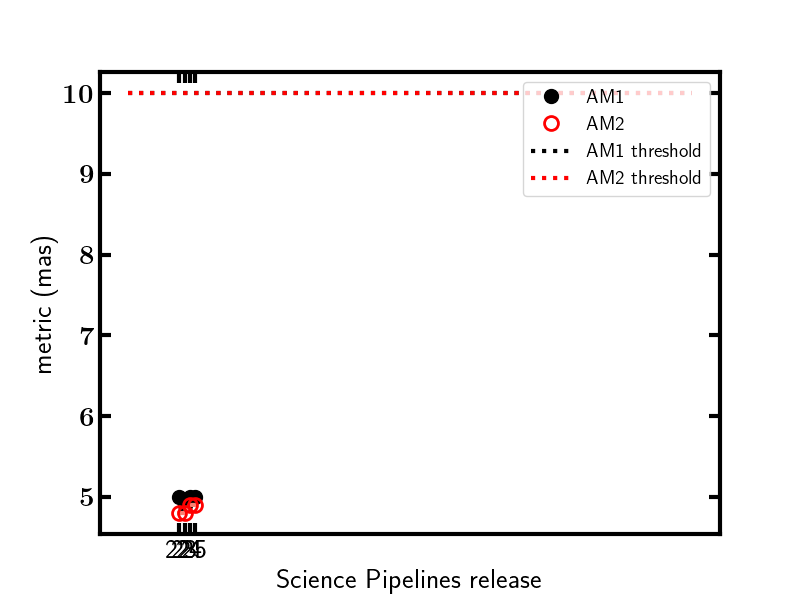
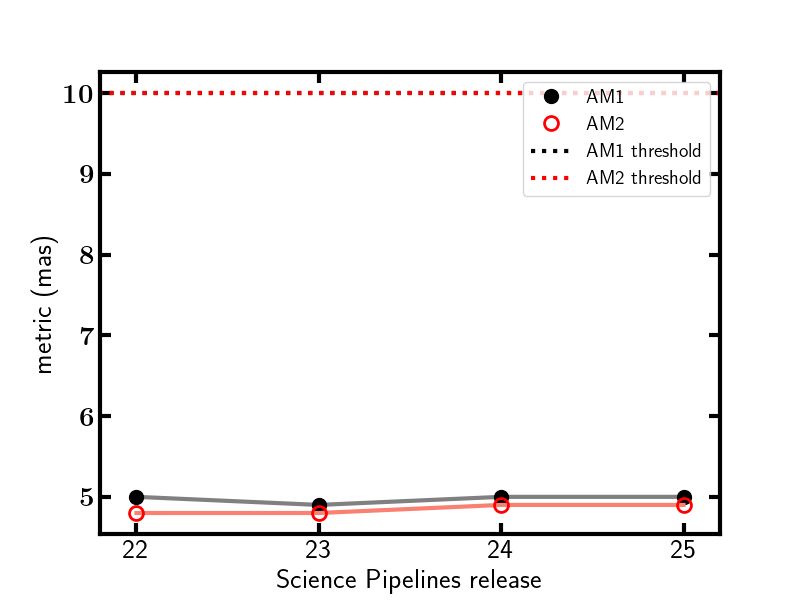
Update figures with thresholds

diff --git a/DMTR-392.tex b/DMTR-392.tex
@@ -71,7 +71,7 @@ The major changes between versions 24 and 25 outlined in the previous section re
 \begin{figure}[!t]
   \centering
   \includegraphics[width=0.6\textwidth, trim=0.0in 0.0in 0.0in 0.0in, clip]{figures/photom_metrics_v25_with_thresholds.png}
-  \caption{Photometry metrics PA1 (photometric repeatability) and PF1 (percentage of measurements exceeding the outlier threshold) measured in the $r$-band. The figure shows the values of these metrics as measured in versions 19-25 of the LSST Science Pipelines. The measured values of both metrics have not changed significantly between the previous release (v24) and the current one (v25), as expected since no major changes were made to the photometric measurement algorithms between v24 and v25.}
+  \caption{Photometry metrics PA1 (photometric repeatability) and PF1 (percentage of measurements exceeding the outlier threshold) measured in the $r$-band. The figure shows the values of these metrics as measured in versions 22-25 of the LSST Science Pipelines. The measured values of both metrics have not changed significantly between the previous release (v24) and the current one (v25), as expected since no major changes were made to the photometric measurement algorithms between v24 and v25.}
   \label{fig:phot_metrics}
 \end{figure}
 
@@ -853,7 +853,6 @@ mas\strut
 \bottomrule
 \end{longtable}
 
-%Almost all of the astrometric metrics are improved with RC2 relative to their values with validation\_data\_hsc. This behavior is expected, because validate\_drp does not include running jointcal, while the RC2 processing does include jointcal. This results in improved astrometry because (1) jointcal simultaneously fits positions of objects in all visits, and (2) RC2 contains more visits, which allows for improvement in the statistical noise of astrometry measurements.
 
 \section{Ellipticity Correlations}\label{ellipticity-correlations}
 
